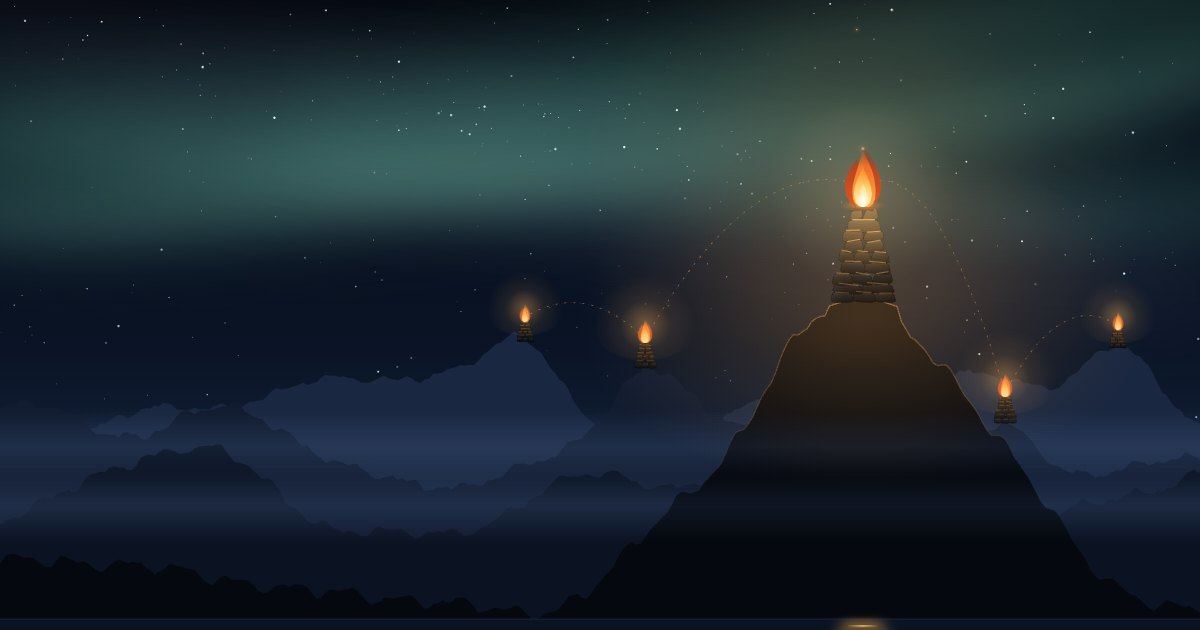
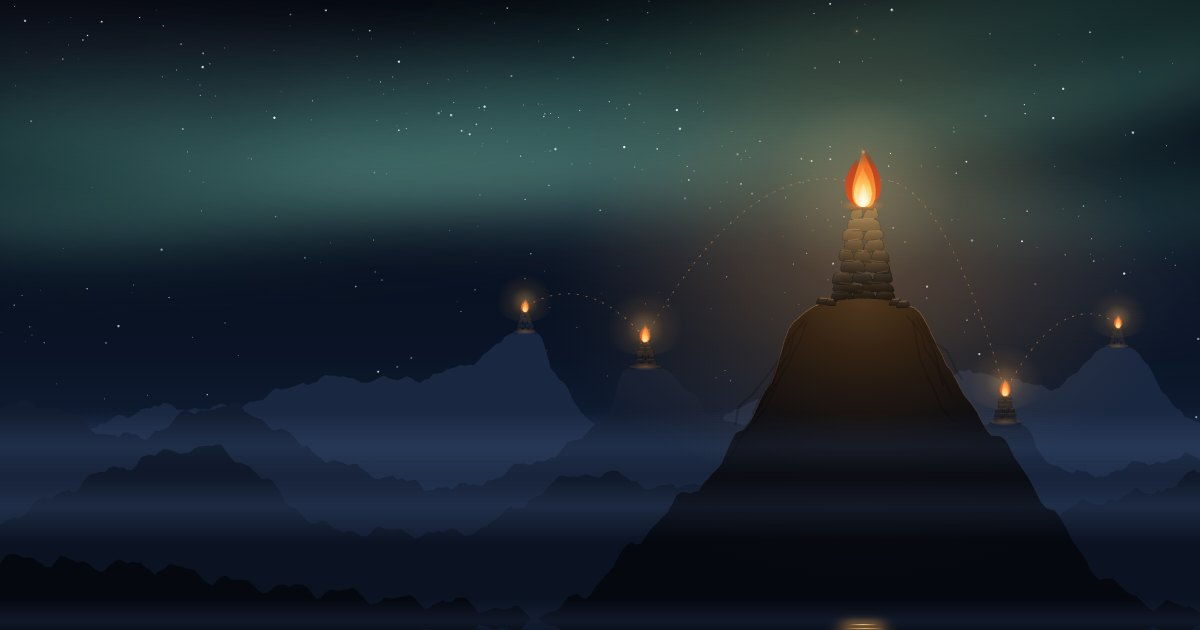
Vardene forankret i fjellene
- Hver varde får et sete: avrundet topp litt bredere enn foten, med ujevn kant
- Jordkant og steinur ved foten; mørkere nederste steiner der de møter bakken
- Bålets lys bakt inn i fjellets farge i stedet for et lag oppå, så varden
  beholder kontrasten; gløden i lufta ligger bak fjellet
- Dis på de fjerne vardene etter dybde, mindre flammer på avstand
- Fjorden speiler fjellfoten, tåke i strandkanten, ujevne krusninger i lysgaten

diff --git a/src/lib/scene.ts b/src/lib/scene.ts
@@ -14,7 +14,8 @@ function rng(seed: number) {
 export const f = (n: number) => n.toFixed(1);
 
 type Bump = { x: number; h: number; w: number };
-function ridge(seed: number, base: number, amp: number, bumps: Bump[], rock = 1, flat?: number) {
+type Seat = { x: number; w: number };
+function ridge(seed: number, base: number, amp: number, bumps: Bump[], rock = 1, seats: Seat[] = []) {
   const r = rng(seed);
   const oct = [0, 1, 2, 3].map((i) => ({ k: (i + 1) * 1.7 + r(), p: r() * 6.28, a: amp / (i + 1) ** 1.3 }));
   oct.push({ k: 19 + r() * 3, p: r() * 6.28, a: amp * 0.09 * rock }, { k: 43 + r() * 5, p: r() * 6.28, a: amp * 0.05 * rock });
@@ -26,9 +27,16 @@ function ridge(seed: number, base: number, amp: number, bumps: Bump[], rock = 1,
   };
   const pts: [number, number][] = [];
   for (let x = -40; x <= W + 40; x += 6) pts.push([x, y(x)]);
-  if (flat !== undefined) {
-    const top = Math.min(...pts.filter((p) => Math.abs(p[0] - flat) < 48).map((p) => p[1]));
-    for (const p of pts) if (Math.abs(p[0] - flat) < 48) p[1] = top + ((p[0] - flat) / 48) ** 2 * 10;
+  // Et sete for hver varde: en avrundet topp litt bredere enn foten, som glir over i fjellet rundt.
+  for (const { x, w } of seats) {
+    const top = Math.min(...pts.filter((p) => Math.abs(p[0] - x) < w).map((p) => p[1]));
+    for (const p of pts) {
+      const dx = Math.abs(p[0] - x);
+      const rough = dx > w * 0.6 ? (Math.sin(p[0] * 0.9) * 1.3 + Math.sin(p[0] * 2.3) * 0.7) * (w / 50) : 0; // ujevn fjellkant utenfor foten
+      const seat = top + (dx / w) ** 2 * w * 0.12 + rough;
+      if (dx < w) p[1] = seat;
+      else if (dx < w * 2) { const t = (dx - w) / w; p[1] = seat * (1 - t * t) + p[1] * t * t; }
+    }
   }
   const at = (x: number) => pts.reduce((a, p) => (Math.abs(p[0] - x) < Math.abs(a[0] - x) ? p : a))[1];
   return {
@@ -39,15 +47,25 @@ function ridge(seed: number, base: number, amp: number, bumps: Bump[], rock = 1,
 }
 
 export const layers = [
-  { fill: '#1a2740', r: ridge(11, 610, 38, [{ x: 700, h: 60, w: 55 }, { x: 1490, h: 75, w: 60 }]) },
-  { fill: '#121c30', r: ridge(23, 672, 46, [{ x: 860, h: 85, w: 65 }, { x: 1340, h: 70, w: 60 }]) },
+  { fill: '#1a2740', r: ridge(11, 610, 38, [{ x: 700, h: 60, w: 55 }, { x: 1490, h: 75, w: 60 }], 1, [{ x: 700, w: 16 }, { x: 1490, w: 16 }]) },
+  { fill: '#121c30', r: ridge(23, 672, 46, [{ x: 860, h: 85, w: 65 }, { x: 1340, h: 70, w: 60 }], 1, [{ x: 860, w: 21 }, { x: 1340, w: 21 }]) },
   { fill: '#0b1322', r: ridge(37, 752, 40, [{ x: 330, h: 40, w: 90 }, { x: 1010, h: 50, w: 70 }], 1.4) },
-  { fill: '#05080f', r: ridge(51, 860, 30, [{ x: MAIN_X, h: 215, w: 120 }, { x: 1060, h: 150, w: 90 }, { x: 1255, h: 175, w: 120 }, { x: 1380, h: 90, w: 90 }, { x: 950, h: 70, w: 110 }], 2.6, MAIN_X) },
+  { fill: '#05080f', r: ridge(51, 860, 30, [{ x: MAIN_X, h: 215, w: 120 }, { x: 1060, h: 150, w: 90 }, { x: 1255, h: 175, w: 120 }, { x: 1380, h: 90, w: 90 }, { x: 950, h: 70, w: 110 }], 2.6, [{ x: MAIN_X, w: 56 }]) },
 ];
+
+function stoneAt(r: () => number, x: number, y: number, w: number, h: number, s: number, o: number, rough = 1): Stone {
+  const j = () => (r() - 0.5) * 3 * s * rough;
+  const tilt = (r() - 0.5) * 4 * s * rough;
+  const c = [[x + j(), y + j() + tilt], [x + w + j(), y + j() - tilt], [x + w - 3 * s + j(), y - h + j() - tilt], [x + 3 * s + j(), y - h + j() + tilt]];
+  const at = (a: number[], b: number[], t: number) => `${f(a[0] + (b[0] - a[0]) * t)} ${f(a[1] + (b[1] - a[1]) * t)}`;
+  let d = `M${at(c[0], c[1], 0.3)}`;
+  for (let i = 1; i <= 4; i++) { const a = c[i - 1], b = c[i % 4], nx = c[(i + 1) % 4]; d += ` L${at(a, b, 0.7)} Q${f(b[0])} ${f(b[1])} ${at(b, nx, 0.3)}`; }
+  return { d: d + 'Z', g: Math.floor(r() * 3), edge: `M${at(c[3], c[2], 0.18)} L${at(c[3], c[2], 0.82)}`, o };
+}
 
 // Varden: smal tørrmur av skjeve, avrundede heller, med bål av kubber på toppen.
 export type Stone = { d: string; g: number; edge: string; o: number };
-export function cairn(seed: number, cx: number, baseY: number, s = 1, rows = 9) {
+export function cairn(seed: number, cx: number, baseY: number, s = 1, rows = 9, ground?: (x: number) => number) {
   const r = rng(seed);
   const stones: Stone[] = [];
   let y = baseY;
@@ -60,13 +78,7 @@ export function cairn(seed: number, cx: number, baseY: number, s = 1, rows = 9) 
     const ws = Array.from({ length: n }, () => (width / n) * (1 + r() * 0.18));
     let x = cx - (ws.reduce((a, b) => a + b, 0) * 0.93) / 2 + (r() - 0.5) * 3 * s;
     for (const w of ws) {
-      const j = () => (r() - 0.5) * 3 * s;
-      const tilt = (r() - 0.5) * 4 * s;
-      const c = [[x + j(), y + j() + tilt], [x + w + j(), y + j() - tilt], [x + w - 3 * s + j(), y - h + j() - tilt], [x + 3 * s + j(), y - h + j() + tilt]];
-      const at = (a: number[], b: number[], t: number) => `${f(a[0] + (b[0] - a[0]) * t)} ${f(a[1] + (b[1] - a[1]) * t)}`;
-      let d = `M${at(c[0], c[1], 0.3)}`;
-      for (let i = 1; i <= 4; i++) { const a = c[i - 1], b = c[i % 4], nx = c[(i + 1) % 4]; d += ` L${at(a, b, 0.7)} Q${f(b[0])} ${f(b[1])} ${at(b, nx, 0.3)}`; }
-      stones.push({ d: d + 'Z', g: Math.floor(r() * 3), edge: `M${at(c[3], c[2], 0.14)} L${at(c[3], c[2], 0.86)}`, o: 0.25 + k * 0.7 });
+      stones.push(stoneAt(r, x, y, w, h, s, 0.2 + k * 0.6));
       x += w * 0.93;
     }
     y -= h - s;
@@ -77,19 +89,38 @@ export function cairn(seed: number, cx: number, baseY: number, s = 1, rows = 9) 
     { x: cx - 17 * s, y: t - 4 * s, w: 34 * s, a: -6 }, { x: cx - 15 * s, y: t - 8 * s, w: 30 * s, a: 7 },
     { x: cx - 13 * s, y: t - 6 * s, w: 24 * s, a: -58 }, { x: cx - 10 * s, y: t - 6 * s, w: 24 * s, a: -122 }, { x: cx - 3 * s, y: t - 6 * s, w: 22 * s, a: -88 },
   ].map((l) => ({ ...l, h: 4.2 * s }));
-  return { stones, logs, top: t - 8 * s, s };
+  // Foten: en jordkant foran de nederste steinene og litt steinur rundt, så varden står i fjellet
+  const half = 44 * s;
+  const g = ground ?? (() => baseY);
+  const lip: string[] = [];
+  for (let x = cx - half * 1.35; x <= cx + half * 1.35; x += 3 * s) lip.push(`${f(x)} ${f(g(x) - 1 * s - r() * 1.2 * s * (1 - Math.abs(x - cx) / (half * 1.4)))}`);
+  const lipD = `M${f(cx - half * 1.35)} ${f(g(cx - half * 1.35) + 14 * s)} L${lip.join(' L')} L${f(cx + half * 1.35)} ${f(g(cx + half * 1.35) + 14 * s)}Z`;
+  const rubble = [-1.18, -0.96, 1.0, 1.22].map((u, i) => {
+    const w = (13 + r() * 8) * s, h = (6 + r() * 3) * s, x = cx + u * half - w / 2;
+    return stoneAt(r, x, g(x + w / 2) + (i % 2 ? 3.5 : 2.5) * s, w, h, s, 0.5, 0.35);
+  });
+  return { stones, logs, top: t - 8 * s, s, lip: lipD, rubble };
 }
 
 const mainY = layers[3].r.at(MAIN_X);
-export const big = cairn(7, MAIN_X, mainY + 4);
+export const big = cairn(7, MAIN_X, mainY + 3, 1, 9, layers[3].r.at);
 export const flame = { x: MAIN_X, y: big.top };
+
+const cr = rng(77);
+export const crags = Array.from({ length: 9 }, (_, i) => {
+  const side = i % 2 ? 1 : -1;
+  let x = MAIN_X + side * (40 + cr() * 90), y = layers[3].r.at(x) + 8 + cr() * 14;
+  const pts = [[x, y]];
+  for (let k = 0; k < 6; k++) { x += side * (4 + cr() * 14); y += 10 + cr() * 18; pts.push([x, y]); }
+  return pts.map(([a, b], k) => `${k ? 'L' : 'M'}${f(a)} ${f(b)}`).join(' ');
+});
 
 // Kjeden: to grener ut fra den store varden, østover og vestover.
 export const chain = [
   { x: 1340, l: 1, s: 0.36 }, { x: 1490, l: 0, s: 0.27 }, { x: 860, l: 1, s: 0.36 }, { x: 700, l: 0, s: 0.27 },
 ].map((c, i) => {
-  const y = layers[c.l].r.at(c.x) + 2;
-  return { ...c, i, y, cairn: cairn(31 + i, c.x, y, c.s, 6) };
+  const y = layers[c.l].r.at(c.x);
+  return { ...c, i, y, cairn: cairn(31 + i, c.x, y + c.s, c.s, 6, layers[c.l].r.at) };
 });
 
 const sr = rng(99);
